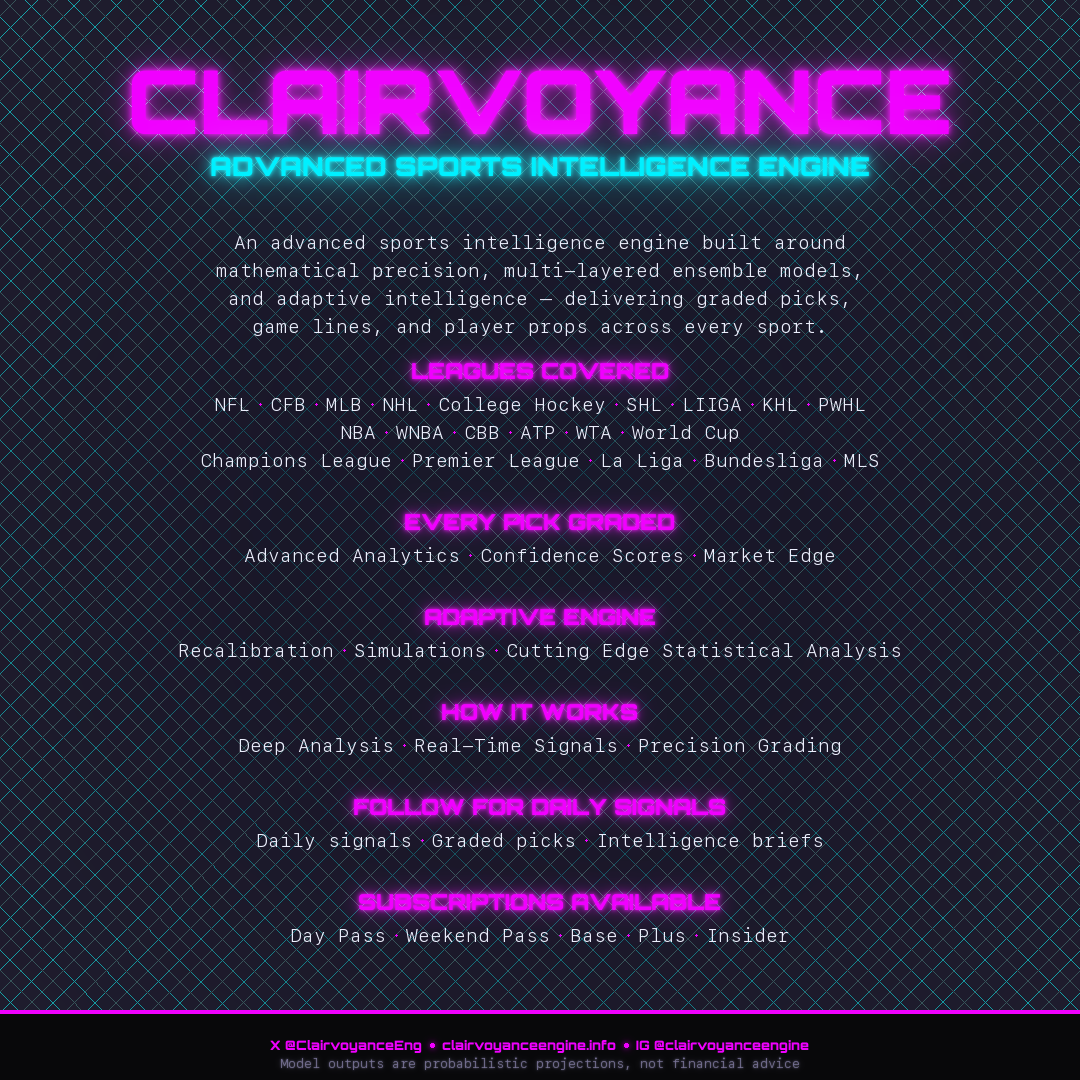
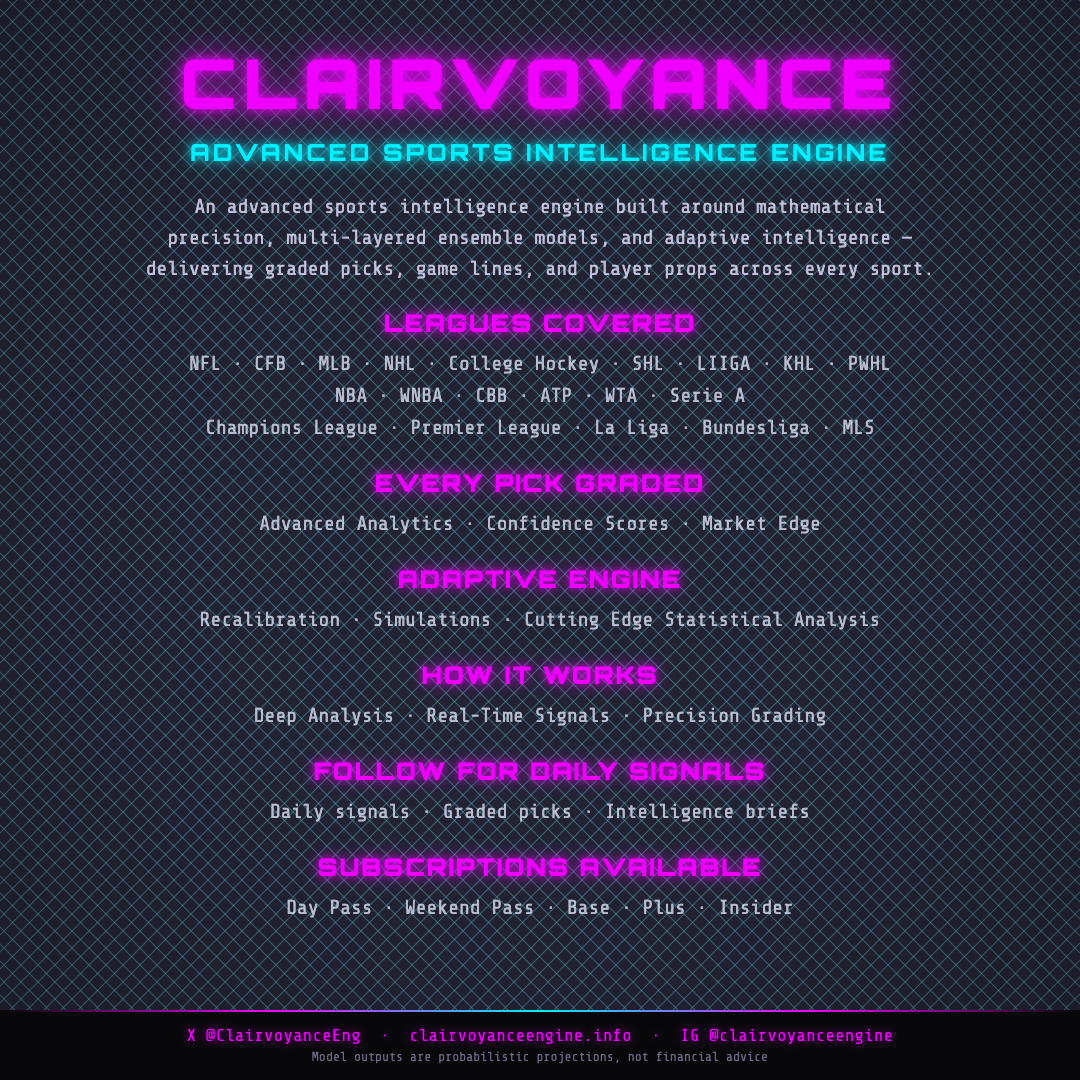
Re-add covers to educational rotation with Serie A in place of World Cup
World Cup is done until 2030 and Serie A is now a live 6th soccer
league, so the "what Clairvoyance covers" card's leagues list needed
the same swap already applied everywhere else. No source script for
the original static asset existed in this repo, so rebuilt it as an
HTML template (same background/font/glow technique as the other
generated cards) and re-rendered the PNG from that - covers_card.html
is now the source of truth, kept alongside the other video templates.

ROTATION_CONTENT is back to [grading, subscription, covers], cycling
every 5 days (15-day full loop).

diff --git a/scripts/video_templates/covers_card.html b/scripts/video_templates/covers_card.html
@@ -1,0 +1,117 @@
+<!DOCTYPE html>
+<html>
+<head>
+<meta charset="utf-8">
+<link href="https://fonts.googleapis.com/css2?family=Share+Tech+Mono&family=Orbitron:wght@400;700;900&display=swap" rel="stylesheet">
+<style>
+  * { margin:0; padding:0; box-sizing:border-box; }
+  html,body { width:1080px; height:1080px; overflow:hidden; }
+  .stage {
+    width:1080px; height:1080px; position:relative;
+    background:transparent;
+    display:flex; flex-direction:column; align-items:center; padding-top:40px;
+  }
+  .logo {
+    font-family:'Orbitron',sans-serif; font-weight:900; font-size:68px; letter-spacing:7px;
+    color:#f000ff; text-shadow:0 0 12px #f000ff,0 0 30px rgba(240,0,255,.7),0 0 60px rgba(240,0,255,.35);
+  }
+  .sub {
+    font-family:'Orbitron',sans-serif; font-weight:700; font-size:23px; letter-spacing:3.5px;
+    color:#00f0ff; text-shadow:0 0 10px #00f0ff,0 0 24px rgba(0,240,255,.6); margin-top:12px;
+  }
+  .intro {
+    width:800px; margin-top:24px; text-align:center;
+    font-family:'Share Tech Mono',monospace; font-size:20px; color:rgba(230,225,255,.82); line-height:1.55;
+  }
+  .sect { margin-top:24px; text-align:center; }
+  .sect-hdr {
+    font-family:'Orbitron',sans-serif; font-weight:900; font-size:24px; letter-spacing:2px;
+    color:#f000ff; text-shadow:0 0 10px rgba(240,0,255,.85),0 0 22px rgba(240,0,255,.4);
+  }
+  .sect-body {
+    width:880px; margin-top:10px;
+    font-family:'Share Tech Mono',monospace; font-size:20px; color:rgba(210,215,235,.85); line-height:1.6;
+  }
+  .footer {
+    position:absolute; bottom:0; left:0; right:0; height:70px; background:#08080a;
+    display:flex; flex-direction:column; align-items:center; justify-content:center; gap:4px;
+  }
+  .footer-top {
+    position:absolute; top:0; left:0; right:0; height:2px;
+    background:linear-gradient(90deg,transparent,#f000ff,#00f0ff,#f000ff,transparent);
+  }
+  .handles {
+    font-family:'Share Tech Mono',monospace; font-size:17px; letter-spacing:.5px; color:#f000ff;
+    text-shadow:0 0 8px rgba(240,0,255,.5);
+  }
+  .disclaimer {
+    font-family:'Share Tech Mono',monospace; font-size:13px; color:rgba(120,115,150,.9);
+  }
+</style>
+</head>
+<body>
+  <canvas id="bgCanvas" width="1080" height="1080" style="position:absolute;top:0;left:0;z-index:-1"></canvas>
+  <script>
+    // Same background algorithm as _cfBg() in docs/app.html / other cards.
+    (function(){
+      var cv=document.getElementById('bgCanvas');
+      var ctx=cv.getContext('2d');
+      var W=1080,H=1080,cx=W/2,cy=H/2;
+      ctx.fillStyle='#222233';ctx.fillRect(0,0,W,H);
+      var DS=Math.max(8,Math.round(W/64));
+      ctx.save();
+      ctx.strokeStyle='rgba(78,166,176,.5)';ctx.lineWidth=1;
+      for(var i=-H;i<=W+H;i+=DS){ctx.beginPath();ctx.moveTo(i,0);ctx.lineTo(i+H,H);ctx.stroke();}
+      for(var i=-H;i<=W+H;i+=DS){ctx.beginPath();ctx.moveTo(i,H);ctx.lineTo(i+H,0);ctx.stroke();}
+      ctx.restore();
+      var vg=ctx.createRadialGradient(cx,cy,W*.30,cx,cy,W*.72);
+      vg.addColorStop(0,'rgba(0,0,0,0)');vg.addColorStop(1,'rgba(0,0,0,.22)');
+      ctx.fillStyle=vg;ctx.fillRect(0,0,W,H);
+    })();
+  </script>
+  <div class="stage">
+    <div class="logo">CLAIRVOYANCE</div>
+    <div class="sub">ADVANCED SPORTS INTELLIGENCE ENGINE</div>
+    <div class="intro">An advanced sports intelligence engine built around mathematical precision, multi-layered ensemble models, and adaptive intelligence — delivering graded picks, game lines, and player props across every sport.</div>
+
+    <div class="sect">
+      <div class="sect-hdr">LEAGUES COVERED</div>
+      <div class="sect-body">
+        NFL · CFB · MLB · NHL · College Hockey · SHL · LIIGA · KHL · PWHL<br>
+        NBA · WNBA · CBB · ATP · WTA · Serie A<br>
+        Champions League · Premier League · La Liga · Bundesliga · MLS
+      </div>
+    </div>
+
+    <div class="sect">
+      <div class="sect-hdr">EVERY PICK GRADED</div>
+      <div class="sect-body">Advanced Analytics · Confidence Scores · Market Edge</div>
+    </div>
+
+    <div class="sect">
+      <div class="sect-hdr">ADAPTIVE ENGINE</div>
+      <div class="sect-body">Recalibration · Simulations · Cutting Edge Statistical Analysis</div>
+    </div>
+
+    <div class="sect">
+      <div class="sect-hdr">HOW IT WORKS</div>
+      <div class="sect-body">Deep Analysis · Real-Time Signals · Precision Grading</div>
+    </div>
+
+    <div class="sect">
+      <div class="sect-hdr">FOLLOW FOR DAILY SIGNALS</div>
+      <div class="sect-body">Daily signals · Graded picks · Intelligence briefs</div>
+    </div>
+
+    <div class="sect">
+      <div class="sect-hdr">SUBSCRIPTIONS AVAILABLE</div>
+      <div class="sect-body">Day Pass · Weekend Pass · Base · Plus · Insider</div>
+    </div>
+  </div>
+  <div class="footer">
+    <div class="footer-top"></div>
+    <div class="handles">X @ClairvoyanceEng &nbsp;·&nbsp; clairvoyanceengine.info &nbsp;·&nbsp; IG @clairvoyanceengine</div>
+    <div class="disclaimer">Model outputs are probabilistic projections, not financial advice</div>
+  </div>
+</body>
+</html>

diff --git a/scripts/generate_social_cards.py b/scripts/generate_social_cards.py
@@ -107,7 +107,7 @@ EVENTS: list[dict] = [
 # every 5 calendar days, deterministically (days-since-epoch // 5), so it
 # never needs stored state and can't double-fire or drift out of sync.
 ROTATION_EPOCH = datetime(2026, 7, 1, tzinfo=timezone.utc)
-ROTATION_CONTENT = ["grading", "subscription"]
+ROTATION_CONTENT = ["grading", "subscription", "covers"]
 # Static "what Clairvoyance covers" asset — a real pre-made card (not
 # generated), attached as-is rather than turned into a video.
 COVERS_CARD_PATH = ROOT / "scripts" / "assets" / "covers_card.png"
